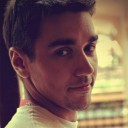
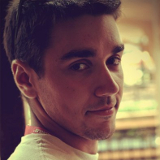
Built yunikov.com from commit 0b16fde on branch dev

diff --git a/css/main.min.css b/css/main.min.css
@@ -1,1 +1,1 @@
-body,html{height:100%;margin:0;background-color:#F2F2F2;font-size:16px;font-weight:300;font-family:RobotoDraft,sans-serif;color:#717171;transition:opacity ease-in .2s}a,a:link,a:visited{font-size:inherit;text-decoration:none;color:#C57676}a:hover{color:#E54539}a:active,a:focus,button::-moz-focus-inner,input[type=reset]::-moz-focus-inner,input[type=button]::-moz-focus-inner,input[type=submit]::-moz-focus-inner,input[type=file]>input[type=button]::-moz-focus-inner,select::-moz-focus-inner{border:0;outline:0}p{line-height:23px}h2{font-size:22px;padding-left:2px;font-weight:500}h3{margin:10px 0}h4{margin:5px}tr.space-under>td{padding-bottom:25px}.icon{width:24px;height:24px}app-layout /deep/ core-scaffold /deep/ core-drawer-panel core-header-panel core-toolbar{background-color:#4C4A4F;color:#fff}.header-link-right{display:inline;padding-bottom:40px}.header-link-right a{font-size:20px;float:right;padding-right:20px;font-weight:300;color:#D0756E}.subsection-heading{margin-top:20px;padding:10px 15px;background-color:#f3f3f3;border-top-left-radius:5px;border-top-right-radius:5px;font-size:18px;-webkit-tap-highlight-color:transparent}.subsection-content{padding:15px;border:1px solid #dedede;border-top:none;border-bottom-left-radius:5px;border-bottom-right-radius:5px}.subsection-content ul{padding-left:25px;margin:0}.subsection-heading-subtitle1{font-size:14px;padding-top:10px;color:#353535}.subsection-heading-subtitle2{font-size:12px;padding-top:10px;color:#6F6F6F}.border-right{border-right:1px solid #eee}.post{padding-bottom:8px}.post .post-read-more{margin:10px 0}.post .post-date{font-weight:400;font-size:15px;padding-bottom:15px;color:#888}.first-letter-uppercase{display:inline-block}.first-letter-uppercase:first-letter{text-transform:uppercase}.index-page .general-info{-webkit-flex-align:center;-ms-flex-align:center;-webkit-align-items:center;align-items:center}.index-page .general-info img{width:160px;border-radius:100px;-webkit-border-radius:100px;-moz-border-radius:100px}.index-page .general-info .second-col{padding-left:20px}.index-page .photo{margin:0 0 0 auto;padding-right:20px}.resume-page .summary-header{text-align:center}.resume-page .summary-table{width:100%;padding:30px}.resume-page .summary-table .summary-table-section div{padding:5px}.resume-page .summary-table .summary-table-section div span{font-weight:300}.resume-page #ghcard-yyunikov-1{margin-top:20px}.resume-page /deep/ stackoverflow-card{margin:0 20px}.resume-page .contact td{padding-right:10px}.resume-page .contact tr{padding-bottom:10px}.resume-page .contact .contact-title,.resume-page .icon{color:#656565}.resume-page .projects-label{margin-top:20px}.resume-page .project-title{padding-top:10px}.resume-page .project-subtitle{font-size:12px;padding-top:5px;color:#383838}.resume-page .project-description{font-size:14px;padding-top:10px;color:#353535}.portfolio-page .portfolio-list{padding:0;list-style:none}.applications-page .app-icon{width:48px;height:48px}.applications-page .app-title{margin-left:15px}.blog-categories-page .category{padding:10px}.blog-categories-page .category a{display:block}.category-page #category .card-content,.category-page-all #category .card-content{padding:30px}@media screen and (max-width:550px){.resume-page .summary-table{padding:0;table-layout:fixed}.resume-page .summary-table th core-icon{width:100%}.resume-page .summary-table .summary-table-section div span{font-size:13px;text-align:center}.resume-page .contact td{white-space:nowrap;padding-right:0}.resume-page .about-websites{display:block!important;text-align:center}.index-page .general-info{display:block!important}.index-page .general-info .photo img{margin:auto;display:block;padding:10px}.resume-page .about-websites stackoverflow-card{margin:20px;width:210px;display:inline-block}}@media screen and (max-width:650px){.portfolio-page .portfolio-image{width:100%}}
+body,html{height:100%;margin:0;background-color:#F2F2F2;font-size:16px;font-weight:300;font-family:RobotoDraft,sans-serif;color:#717171;transition:opacity ease-in .2s}a,a:link,a:visited{font-size:inherit;text-decoration:none;color:#C57676}a:hover{color:#E54539}a:active,a:focus,button::-moz-focus-inner,input[type=reset]::-moz-focus-inner,input[type=button]::-moz-focus-inner,input[type=submit]::-moz-focus-inner,input[type=file]>input[type=button]::-moz-focus-inner,select::-moz-focus-inner{border:0;outline:0}p{line-height:23px}h2{font-size:22px;padding-left:2px;font-weight:500}h3{margin:10px 0}h4{margin:5px}tr.space-under>td{padding-bottom:25px}.icon{width:24px;height:24px}app-layout /deep/ core-scaffold /deep/ core-drawer-panel core-header-panel core-toolbar{background-color:#4C4A4F;color:#fff}.header-link-right{display:inline;padding-bottom:40px}.header-link-right a{font-size:20px;float:right;padding-right:20px;font-weight:300;color:#D0756E}.subsection-heading{margin-top:20px;padding:10px 15px;background-color:#f3f3f3;border-top-left-radius:5px;border-top-right-radius:5px;font-size:18px;-webkit-tap-highlight-color:transparent}.subsection-content{padding:15px;border:1px solid #dedede;border-top:none;border-bottom-left-radius:5px;border-bottom-right-radius:5px}.subsection-content ul{padding-left:25px;margin:0}.subsection-heading-subtitle1{font-size:14px;padding-top:10px;color:#353535}.subsection-heading-subtitle2{font-size:12px;padding-top:10px;color:#6F6F6F}.border-right{border-right:1px solid #eee}.post{padding-bottom:8px}.post .post-read-more{margin:10px 0}.post .post-date{font-weight:400;font-size:15px;padding-bottom:15px;color:#888}.first-letter-uppercase{display:inline-block}.first-letter-uppercase:first-letter{text-transform:uppercase}.index-page .general-info{-webkit-flex-align:center;-ms-flex-align:center;-webkit-align-items:center;align-items:center}.index-page .general-info img{border-radius:100px;-webkit-border-radius:100px;-moz-border-radius:100px}.index-page .general-info .second-col{padding-left:20px}.index-page .photo{margin:0 0 0 auto;padding-right:20px}.resume-page .summary-header{text-align:center}.resume-page .summary-table{width:100%;padding:30px}.resume-page .summary-table .summary-table-section div{padding:5px}.resume-page .summary-table .summary-table-section div span{font-weight:300}.resume-page #ghcard-yyunikov-1{margin-top:20px}.resume-page /deep/ stackoverflow-card{margin:0 20px}.resume-page .contact td{padding-right:10px}.resume-page .contact tr{padding-bottom:10px}.resume-page .contact .contact-title,.resume-page .icon{color:#656565}.resume-page .projects-label{margin-top:20px}.resume-page .project-title{padding-top:10px}.resume-page .project-subtitle{font-size:12px;padding-top:5px;color:#383838}.resume-page .project-description{font-size:14px;padding-top:10px;color:#353535}.portfolio-page .portfolio-list{padding:0;list-style:none}.applications-page .app-icon{width:48px;height:48px}.applications-page .app-title{margin-left:15px}.blog-categories-page .category{padding:10px}.blog-categories-page .category a{display:block}.category-page #category .card-content,.category-page-all #category .card-content{padding:30px}@media screen and (max-width:550px){.resume-page .summary-table{padding:0;table-layout:fixed}.resume-page .summary-table th core-icon{width:100%}.resume-page .summary-table .summary-table-section div span{font-size:13px;text-align:center}.resume-page .contact td{white-space:nowrap;padding-right:0}.resume-page .about-websites{display:block!important;text-align:center}.index-page .general-info{display:block!important}.index-page .general-info .photo img{margin:auto;display:block;padding:10px}.resume-page .about-websites stackoverflow-card{margin:20px;width:210px;display:inline-block}}@media screen and (max-width:650px){.portfolio-page .portfolio-image{width:100%}}

diff --git a/css/main.css b/css/main.css
@@ -151,7 +151,6 @@ app-layout /deep/ core-scaffold /deep/ core-drawer-panel core-header-panel core-
 }
 
 .index-page .general-info img{
-	width: 160px;
 	border-radius: 100px;
 	-webkit-border-radius: 100px;
 	-moz-border-radius: 100px;
